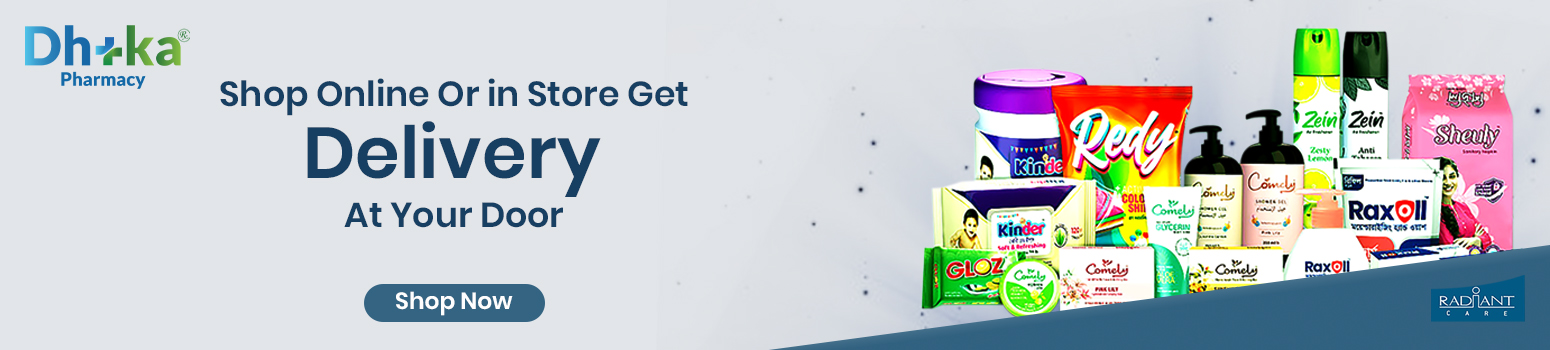
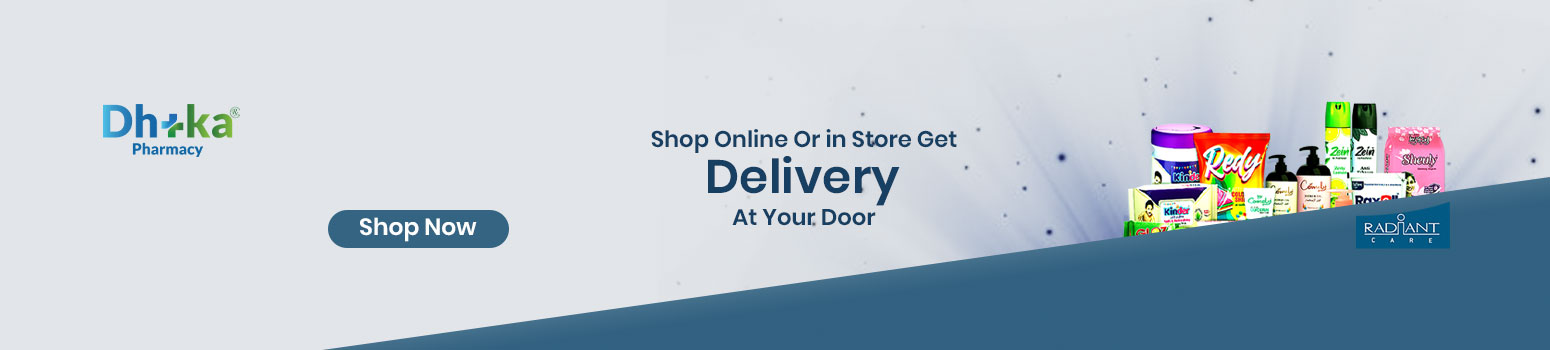
image update

diff --git a/public/frontend/asset/css/responsive.css b/public/frontend/asset/css/responsive.css
@@ -1543,10 +1543,10 @@
     .slider-sction .home-main-banner .uk-dotnav{
         bottom: -6px !important;
     }
-    .delivery-slider-section .bottom-slide-items img{
+    /* .delivery-slider-section .bottom-slide-items img{
         height: 200px;
         object-fit: cover;
-    }
+    } */
 }
 
 @media screen and (max-width: 640px) {
@@ -2119,8 +2119,10 @@
         object-fit: cover;
     }
     .delivery-slider-section .bottom-slide-items img {
-        height: 145px;
+        height: 135px;
+        object-fit: fill;
     }
+    
 }
 
 /*========================================

diff --git a/public/hub/css/responsive.css b/public/hub/css/responsive.css
@@ -1,0 +1,11 @@
+
+@media screen and (max-width: 640px) and (min-width: 320px) {
+    .dashboard_wrap h2{
+        font-size: 46px !important;
+    } 
+    .dashboard_wrap h4 {
+        font-size: 32px !important;
+        margin: 0;
+        margin-bottom: 29px !important;
+    }
+}

diff --git a/resources/views/frontend/home.blade.php b/resources/views/frontend/home.blade.php
@@ -265,7 +265,7 @@ uk-child-width-1-5@m cat-list">
                         <!-- Slide 2 -->
                         <div class="bottom-slide-items">
                             <div class="uk-panel">
-                                <img src="{{ asset('frontend/asset/img/bottom-slider/slider-2.jpg') }}"
+                                <img src="{{ asset('frontend/asset/img/bottom-slider/newslider-1.jpg') }}"
                                     alt="slider image">
                             </div>
                         </div>

diff --git a/resources/views/hub/layouts/master.blade.php b/resources/views/hub/layouts/master.blade.php
@@ -26,6 +26,7 @@
         crossorigin="anonymous" referrerpolicy="no-referrer" />
     <link href="{{ asset('admin/css/custom.css') }}" rel="stylesheet">
     <link href="{{ asset('hub/css/custom.css') }}" rel="stylesheet">
+    <link href="{{ asset('hub/css/responsive.css') }}" rel="stylesheet">
 
 
     @vite(['resources/sass/app.scss', 'resources/js/app.js'])
